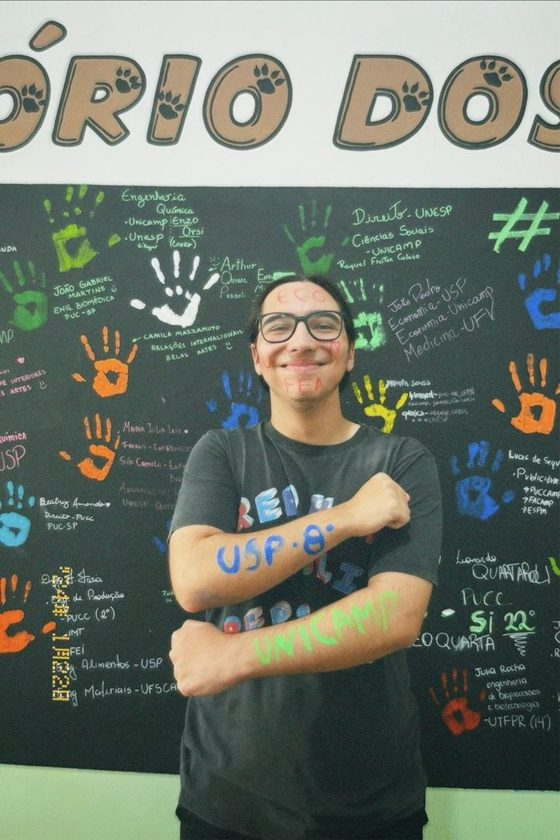
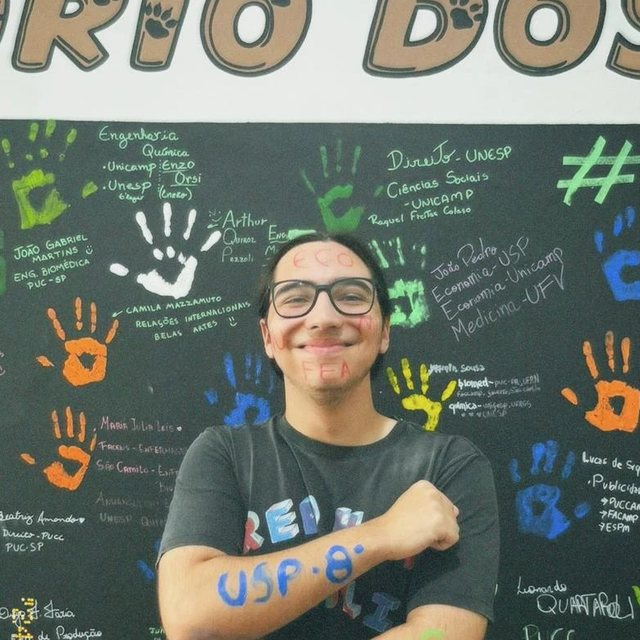
Site em abas, fotos quadradas, WhatsApp e e-mail USP, 18h reservado

diff --git a/index.html b/index.html
@@ -23,6 +23,16 @@
   /* topo */
   .topbar{background:var(--blue);color:#fff;position:sticky;top:0;z-index:20}
   .topbar .wrap{display:flex;justify-content:space-between;align-items:center;padding:12px 20px}
+  .tabs{background:var(--blue-dark)}
+  .tabs .wrap{justify-content:flex-start;gap:4px;padding:0 12px;overflow-x:auto;scrollbar-width:none}
+  .tabs a{color:#cfe0ff;text-decoration:none;font-weight:600;font-size:.92rem;padding:11px 14px;white-space:nowrap;border-bottom:3px solid transparent}
+  .tabs a:hover{color:#fff}
+  .tabs a.active{color:#fff;border-bottom-color:#fff}
+  .tab{display:none}
+  .tab.active{display:block}
+  .contact-card{text-decoration:none;text-align:center;color:inherit;transition:.15s}
+  .contact-card:hover{border-color:var(--blue);transform:translateY(-2px)}
+  .contact-card p{color:var(--ink);font-weight:600}
   .brand{font-weight:800;font-size:1.15rem;line-height:1.1}
 
   .btn{display:inline-flex;align-items:center;gap:8px;background:var(--wa);color:#fff;font-weight:700;
@@ -34,14 +44,15 @@
 
   /* hero */
   .hero{background:linear-gradient(180deg,var(--blue-soft),#fff);overflow:hidden}
-  .hero .wrap{text-align:center}
-  .hero-text{padding:64px 0 56px;max-width:720px;margin:0 auto}
+  .hero .wrap{display:grid;gap:32px;grid-template-columns:1.15fr .85fr;align-items:center;padding-top:44px;padding-bottom:44px}
+  .hero-text{max-width:560px}
+  .hero-photo img{display:block;width:100%;max-width:360px;aspect-ratio:1;object-fit:cover;border-radius:28px;border:6px solid #fff;box-shadow:0 12px 32px rgba(11,77,179,.22);margin:0 auto}
   .tag{display:inline-block;background:var(--blue);color:#fff;font-weight:600;font-size:.85rem;padding:6px 14px;border-radius:8px;margin-bottom:16px}
   .hero h1{font-size:clamp(2.4rem,7vw,4rem);font-weight:800}
   .hero h2{font-size:clamp(1.1rem,3vw,1.5rem);font-weight:500;color:var(--blue);margin:10px 0 6px}
   .handle{color:var(--muted);font-weight:600;margin-bottom:22px}
   .handle a{color:var(--blue);text-decoration:none}
-  .ctas{display:flex;gap:12px;flex-wrap:wrap;justify-content:center}
+  .ctas{display:flex;gap:12px;flex-wrap:wrap}
 
   /* faixa de credenciais */
   .proof{background:var(--blue);color:#fff;padding:26px 0}
@@ -98,8 +109,8 @@
   .quote{text-align:center;max-width:620px;margin:34px auto 0;font-weight:600;font-size:1.1rem}
 
   /* história */
-  .story{display:grid;gap:36px;grid-template-columns:.8fr 1.2fr;align-items:center}
-  .story img{width:100%;border-radius:18px;display:block;box-shadow:0 8px 24px rgba(0,0,0,.15)}
+  .story{display:grid;gap:36px;grid-template-columns:.9fr 1.1fr;align-items:center}
+  .story img{width:100%;aspect-ratio:1;object-fit:cover;border-radius:22px;display:block;box-shadow:0 8px 24px rgba(0,0,0,.15)}
   .story h2{font-size:clamp(1.5rem,4vw,2rem);font-weight:800;margin-bottom:14px}
   .story h2 em{color:var(--blue);font-style:normal}
   .story p{color:var(--muted);margin-bottom:12px}
@@ -121,7 +132,12 @@
   .float:hover{background:var(--wa-dark)}
 
   @media(max-width:700px){
-    .hero-text{padding:40px 0 36px}
+    .hero .wrap{grid-template-columns:1fr;gap:22px;padding-top:28px;padding-bottom:32px}
+    .hero-text{text-align:center;margin:0 auto}
+    .ctas{justify-content:center}
+    .hero-photo{order:-1}
+    .hero-photo img{max-width:240px}
+    .story img{max-width:300px !important}
     .story{grid-template-columns:1fr}
     .story img{max-width:320px;margin:0 auto}
   }
@@ -134,60 +150,134 @@
     <div class="brand">Rafa Berioni</div>
     <a class="btn small" href="#agendar">Agendar aula</a>
   </div>
-</div>
-
-<header class="hero">
-  <div class="wrap">
-    <div class="hero-text">
-      <span class="tag">Aulas particulares &amp; preparação para o vestibular</span>
-      <h1>Rafa<br>Berioni</h1>
-      <h2>economia, matemática &amp; humanas</h2>
-      <p class="handle"><a href="https://instagram.com/economiacomberioni" target="_blank" rel="noopener">@economiacomberioni</a></p>
-      <div class="ctas">
-        <a class="btn" href="#agendar">📅 Agendar minha aula</a>
-        <a class="btn ghost" href="#foco">Ver modalidades</a>
-      </div>
+  <nav class="tabs" aria-label="Seções do site">
+    <div class="wrap">
+      <a href="#inicio" data-tab="inicio">Início</a>
+      <a href="#aulas" data-tab="aulas">Aulas</a>
+      <a href="#sobre" data-tab="sobre">Sobre mim</a>
+      <a href="#agendar" data-tab="agendar">Agendar</a>
+      <a href="#contato" data-tab="contato">Contato</a>
     </div>
-  </div>
-</header>
-
-<div class="proof">
-  <div class="wrap">
-    <div><b>USP</b><span>Aluno de Economia, 3º ano</span></div>
-    <div><b>8º lugar</b><span>na USP, 76 acertos na Fuvest</span></div>
-    <div><b>4 aprovações</b><span>USP, Unesp (2º), Unifesp e Unicamp</span></div>
-  </div>
+  </nav>
 </div>
 
 <main>
-  <section id="foco">
-    <div class="wrap">
-      <h2 class="title">Escolha seu foco</h2>
-      <p class="sub">Aulas 100% online, pacotes mensais flexíveis e material exclusivo.</p>
-      <div class="grid">
-        <div class="card">
-          <div class="ico">🎯</div>
-          <h3>Pré-vestibular</h3>
-          <p>Treinamento estratégico para provas discursivas (Fuvest e Unicamp), gestão de tempo e redação matemática.</p>
-          <a class="btn small pick" href="#agendar" data-mod="Pré-vestibular">Quero esta</a>
+  <!-- ===== INÍCIO ===== -->
+  <div class="tab" id="tab-inicio">
+    <header class="hero">
+      <div class="wrap">
+        <div class="hero-text">
+          <span class="tag">Aulas particulares &amp; preparação para o vestibular</span>
+          <h1>Rafa<br>Berioni</h1>
+          <h2>economia, matemática &amp; humanas</h2>
+          <p class="handle"><a href="https://instagram.com/economiacomberioni" target="_blank" rel="noopener">@economiacomberioni</a></p>
+          <div class="ctas">
+            <a class="btn" href="#agendar">📅 Agendar minha aula</a>
+            <a class="btn ghost" href="#aulas">Ver modalidades</a>
+          </div>
         </div>
-        <div class="card">
-          <div class="ico">📈</div>
-          <h3>Graduação</h3>
-          <p>Socorro de fim de semestre para Economia: Cálculo, Econometria, Macro e História Econômica.</p>
-          <a class="btn small pick" href="#agendar" data-mod="Graduação">Quero esta</a>
-        </div>
-        <div class="card">
-          <div class="ico">📚</div>
-          <h3>Ensino Médio</h3>
-          <p>Reforço contínuo e construção de base lógica em Matemática, História e Geografia.</p>
-          <a class="btn small pick" href="#agendar" data-mod="Ensino Médio">Quero esta</a>
+        <div class="hero-photo">
+          <img src="img/rafa1.jpg" alt="Rafa Berioni, professor de Economia, Matemática e Humanas" width="360" height="360">
         </div>
       </div>
-    </div>
-  </section>
+    </header>
 
-  <section id="agendar" class="alt">
+    <div class="proof">
+      <div class="wrap">
+        <div><b>USP</b><span>Aluno de Economia, 3º ano</span></div>
+        <div><b>8º lugar</b><span>na USP, 76 acertos na Fuvest</span></div>
+        <div><b>4 aprovações</b><span>USP, Unesp (2º), Unifesp e Unicamp</span></div>
+      </div>
+    </div>
+
+    <section class="alt">
+      <div class="wrap">
+        <h2 class="title">Como funciona</h2>
+        <p class="sub">Sem burocracia: você monta sua aula e a mensagem já chega pronta no meu WhatsApp.</p>
+        <div class="how">
+          <div class="card"><div class="ico">💬</div><h3>1. Monte sua aula</h3><p>Escolha modalidade, pacote, duração e os horários que preferir.</p></div>
+          <div class="card"><div class="ico">🗓</div><h3>2. Confirme pelo WhatsApp</h3><p>Aulas 100% online, em pacotes mensais flexíveis que cabem na sua rotina.</p></div>
+          <div class="card"><div class="ico">🚀</div><h3>3. Estude com estratégia</h3><p>Material exclusivo, foco no raciocínio e acompanhamento do seu progresso.</p></div>
+        </div>
+      </div>
+    </section>
+
+    <section>
+      <div class="wrap">
+        <div class="cta">
+          <h2>Bora garantir essa aprovação?</h2>
+          <p>Vagas reduzidas. Escolha seus horários e me chame no WhatsApp.</p>
+          <a class="btn" href="#agendar">📅 Agendar minha aula</a>
+        </div>
+      </div>
+    </section>
+  </div>
+
+  <!-- ===== AULAS ===== -->
+  <div class="tab" id="tab-aulas">
+    <section>
+      <div class="wrap">
+        <h2 class="title">Escolha seu foco</h2>
+        <p class="sub">Aulas 100% online, pacotes mensais flexíveis e material exclusivo.</p>
+        <div class="grid">
+          <div class="card">
+            <div class="ico">🎯</div>
+            <h3>Pré-vestibular</h3>
+            <p>Treinamento estratégico para provas discursivas (Fuvest e Unicamp), gestão de tempo e redação matemática.</p>
+            <a class="btn small pick" href="#agendar" data-mod="Pré-vestibular">Quero esta</a>
+          </div>
+          <div class="card">
+            <div class="ico">📈</div>
+            <h3>Graduação</h3>
+            <p>Socorro de fim de semestre para Economia: Cálculo, Econometria, Macro e História Econômica.</p>
+            <a class="btn small pick" href="#agendar" data-mod="Graduação">Quero esta</a>
+          </div>
+          <div class="card">
+            <div class="ico">📚</div>
+            <h3>Ensino Médio</h3>
+            <p>Reforço contínuo e construção de base lógica em Matemática, História e Geografia.</p>
+            <a class="btn small pick" href="#agendar" data-mod="Ensino Médio">Quero esta</a>
+          </div>
+        </div>
+      </div>
+    </section>
+  </div>
+
+  <!-- ===== SOBRE MIM ===== -->
+  <div class="tab" id="tab-sobre">
+    <section class="alt">
+      <div class="wrap">
+        <div class="story">
+          <img src="img/rafa2.jpg" alt="Rafa Berioni comemorando a aprovação na USP e na Unicamp" width="360" height="360">
+          <div>
+            <h2>Eu não era bom em matemática. <em>Mas foi ela que me fez entrar na USP em 8º lugar.</em></h2>
+            <p>Meu problema era que eu <strong>não conseguia decorar as fórmulas</strong>. Quando comecei a aprender o raciocínio matemático, tudo mudou.</p>
+            <p><strong>Aulas particulares direcionadas, material exclusivo e zero decoreba.</strong></p>
+            <a class="btn" href="#agendar" style="margin-top:8px">📅 Quero começar</a>
+          </div>
+        </div>
+      </div>
+    </section>
+
+    <section>
+      <div class="wrap">
+        <h2 class="title">Minha trajetória</h2>
+        <p class="sub">Do cursinho à universidade, passando por pesquisa e docência.</p>
+        <div class="timeline">
+          <div class="tl"><b>2027</b><p>Intercâmbio na Universidad Carlos III de Madrid (Espanha)</p></div>
+          <div class="tl"><b>2026</b><p>3º ano de Economia na USP. Iniciação científica premiada</p></div>
+          <div class="tl"><b>2025</b><p>2º ano de Economia na USP. Estágio em Pesquisa Macroeconômica</p></div>
+          <div class="tl"><b>2024</b><p>1º ano de Economia na USP. Professor de Matemática em cursinho popular</p></div>
+          <div class="tl"><b>2023</b><p>Aprovado em Economia na USP, Unicamp, Unesp e Unifesp, direto do 3º ano do Ensino Médio</p></div>
+        </div>
+        <p class="quote">Passar na USP abriu o mundo para mim.<br>O vestibular é a chave para abrir o seu.</p>
+      </div>
+    </section>
+  </div>
+
+  <!-- ===== AGENDAR ===== -->
+  <div class="tab" id="tab-agendar">
+      <section>
     <div class="wrap">
       <h2 class="title">Monte sua aula</h2>
       <p class="sub">Escolha a modalidade, o pacote e os horários. Ao clicar no botão, a mensagem já chega pronta no meu WhatsApp.</p>
@@ -222,61 +312,27 @@
       </div>
     </div>
   </section>
+  </div>
 
-  <section class="alt">
-    <div class="wrap">
-      <div class="story">
-        <img src="img/rafa2.jpg" alt="Rafa Berioni comemorando a aprovação na USP e na Unicamp" loading="lazy">
-        <div>
-          <h2>Eu não era bom em matemática. <em>Mas foi ela que me fez entrar na USP em 8º lugar.</em></h2>
-          <p>Meu problema era que eu <strong>não conseguia decorar as fórmulas</strong>. Quando comecei a aprender o raciocínio matemático, tudo mudou.</p>
-          <p><strong>Aulas particulares direcionadas, material exclusivo e zero decoreba.</strong></p>
-          <a class="btn" href="#agendar" style="margin-top:8px">📅 Quero começar</a>
+  <!-- ===== CONTATO ===== -->
+  <div class="tab" id="tab-contato">
+    <section>
+      <div class="wrap">
+        <h2 class="title">Contato</h2>
+        <p class="sub">Prefere falar direto? Escolha o canal que for melhor para você.</p>
+        <div class="grid contact">
+          <a class="card contact-card js-wa" href="#"><div class="ico">💬</div><h3>WhatsApp</h3><p>+55 11 99818-4843</p></a>
+          <a class="card contact-card" href="mailto:rafaelberioni@usp.br"><div class="ico">✉</div><h3>E-mail</h3><p>rafaelberioni@usp.br</p></a>
+          <a class="card contact-card" href="https://instagram.com/economiacomberioni" target="_blank" rel="noopener"><div class="ico">📸</div><h3>Instagram</h3><p>@economiacomberioni</p></a>
         </div>
       </div>
-    </div>
-  </section>
-
-  <section>
-    <div class="wrap">
-      <h2 class="title">Minha trajetória</h2>
-      <p class="sub">Do cursinho à universidade, passando por pesquisa e docência.</p>
-      <div class="timeline">
-        <div class="tl"><b>2027</b><p>Intercâmbio na Universidad Carlos III de Madrid (Espanha)</p></div>
-        <div class="tl"><b>2026</b><p>3º ano de Economia na USP. Iniciação científica premiada</p></div>
-        <div class="tl"><b>2025</b><p>2º ano de Economia na USP. Estágio em Pesquisa Macroeconômica</p></div>
-        <div class="tl"><b>2024</b><p>1º ano de Economia na USP. Professor de Matemática em cursinho popular</p></div>
-        <div class="tl"><b>2023</b><p>Aprovado em Economia na USP, Unicamp, Unesp e Unifesp, direto do 3º ano do Ensino Médio</p></div>
-      </div>
-      <p class="quote">Passar na USP abriu o mundo para mim.<br>O vestibular é a chave para abrir o seu.</p>
-    </div>
-  </section>
-
-  <section class="alt">
-    <div class="wrap">
-      <h2 class="title">Como funciona</h2>
-      <p class="sub">Sem burocracia: você chama, a gente combina o melhor horário.</p>
-      <div class="how">
-        <div class="card"><div class="ico">💬</div><h3>1. Mande uma mensagem</h3><p>Conte seu objetivo, sua prova ou matéria e suas maiores dificuldades.</p></div>
-        <div class="card"><div class="ico">🗓</div><h3>2. Escolha o horário</h3><p>Aulas online, em pacotes mensais flexíveis que cabem na sua rotina.</p></div>
-        <div class="card"><div class="ico">🚀</div><h3>3. Estude com estratégia</h3><p>Material exclusivo, foco no raciocínio e acompanhamento do seu progresso.</p></div>
-      </div>
-    </div>
-  </section>
-
-  <section>
-    <div class="wrap">
-      <div class="cta">
-        <h2>Bora garantir essa aprovação?</h2>
-        <p>Vagas reduzidas. Me chame no WhatsApp para encontrarmos o melhor horário para você.</p>
-        <a class="btn js-wa" href="#">💬 Falar no WhatsApp</a>
-      </div>
-    </div>
-  </section>
+    </section>
+  </div>
 </main>
 
 <footer>
   © <span id="ano"></span> Rafa Berioni · Aulas particulares ·
+  <a href="mailto:rafaelberioni@usp.br">rafaelberioni@usp.br</a> ·
   <a href="https://instagram.com/economiacomberioni" target="_blank" rel="noopener">@economiacomberioni</a>
 </footer>
 
@@ -285,7 +341,7 @@
 <script>
   // ===== EDITE AQUI =====
   // Código do país (55) + DDD + número, só dígitos. Ex.: 5511999999999
-  const WHATSAPP = "5500000000000";
+  const WHATSAPP = "5511998184843";
   const MENSAGEM = "Olá, Rafa! Vi seu site e quero saber mais sobre as aulas.";
   // Disponibilidade por dia: [início, fim] em horas (24h). Dia sem intervalos = indisponível.
   const DIAS = ["Segunda", "Terça", "Quarta", "Quinta", "Sexta", "Sábado", "Domingo"];
@@ -296,13 +352,26 @@
   const PRIMEIRA_HORA = 9, ULTIMA_HORA = 22;   // linhas exibidas na grade
   // ======================
 
+  const $ = id => document.getElementById(id);
   const wa = text => "https://wa.me/" + WHATSAPP + "?text=" + encodeURIComponent(text);
   document.querySelectorAll(".js-wa").forEach(a => { a.href = wa(MENSAGEM); a.target = "_blank"; a.rel = "noopener"; });
   document.getElementById("ano").textContent = new Date().getFullYear();
 
+  // abas (navegação por #hash)
+  const TABS = ["inicio", "aulas", "sobre", "agendar", "contato"];
+  function showTab() {
+    let t = location.hash.slice(1);
+    if (!TABS.includes(t)) t = "inicio";
+    TABS.forEach(n => {
+      $("tab-" + n).classList.toggle("active", n === t);
+      document.querySelector('.tabs a[data-tab="' + n + '"]').classList.toggle("active", n === t);
+    });
+    window.scrollTo(0, 0);
+  }
+  window.addEventListener("hashchange", showTab);
+
   const state = { mod: null, pkg: null, dur: "1h", slots: new Set() };
   const DUR_MIN = { "1h": 60, "1h30": 90 };
-  const $ = id => document.getElementById(id);
 
   // grade: dias na horizontal, horários na vertical
   const grid = $("slots");
@@ -334,8 +403,8 @@
       const ok = DISPONIBILIDADE[b.dataset.day].some(([ini, f]) => h >= ini && fim <= f);
       b.disabled = !ok;
       b.classList.toggle("thin", !ok && h <= 17);
-      b.classList.toggle("res", !ok && h >= 19);
-      b.textContent = (!ok && h >= 19) ? "reservado" : "✓";
+      b.classList.toggle("res", !ok && h >= 18);
+      b.textContent = (!ok && h >= 18) ? "reservado" : "✓";
       b.style.color = ok && b.getAttribute("aria-pressed") === "true" ? "#fff" : "transparent";
       if (!ok && b.getAttribute("aria-pressed") === "true") {
         b.setAttribute("aria-pressed", "false"); b.style.color = "transparent"; state.slots.delete(b.dataset.key);
@@ -391,6 +460,8 @@
   if (q && map[q.toLowerCase()]) setChip("mod", "mod", map[q.toLowerCase()]);
   setChip("dur", "dur", state.dur);
   render();
+  if (q && map[q.toLowerCase()] && !location.hash) location.hash = "agendar";
+  showTab();
 </script>
 </body>
 </html>
